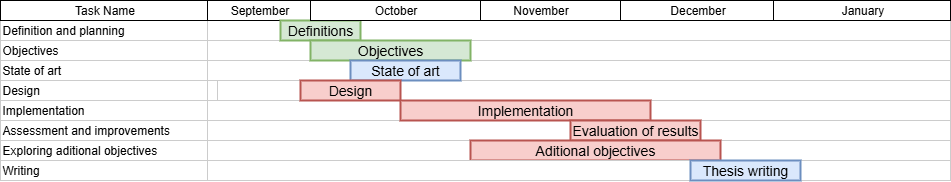
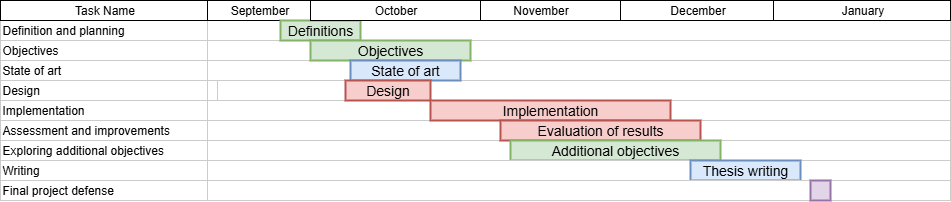
latex: PEC1: first fixings

Changed region(s): [[0.0, 0.0, 1.0, 1.0]]

diff --git a/latex/TFM/sections/1_introduction.tex b/latex/TFM/sections/1_introduction.tex
@@ -5,15 +5,18 @@
 \onehalfspacing
 %\addcontentsline{toc}{chapter}{Introduction}
 %\section{Introduction}
-\section{Justification of interest and relevance}
+\section{Context and motivation}
 
-Currently, it has been established that on large scales, the structure of the universe is formed by a vast cosmic web primarily composed of dark matter \cite{Eniasto:2014}. The topology of this cosmic web consists of a network of filaments that enclosing large voids \cite{Anatole:2024}. These filaments, comprising mainly of dark matter halos, contain the baryonic matter composed of galaxy clusters and intergalactic matter. The largest and most populated clusters and superclusters of galaxies reside within these dark matter filaments, predominantly at their intersection points, and thus form the largest structures of the visible universe.
+Al estudiar el universo a media y larga escala, nos adentramos en el universo de los cartografiados de galaxias, que son estudios basados en la utilización de telescopios dedicados a la obtención de grandes censos de galaxias. Estos estudios tienen muchos objetivos, uno de los consiste en mapear grandes zonas del universo.
 
-Determining the structure of these clusters is therefore crucial for understanding the matter distribution in the universe. This is where clustering algorithms come into play. For reasons that will be discussed further, the density-based algorithms may be the most appropriate for this study.
+Dos ejemplos son 2dGFRS SDSS, cuyos datos son la base para este trabajo, hablaremos más en detalle en la \label{sec:state-of_art} pero ya adelantamos que gracias a ellos obtenemos grandes juegos de datos con los que es posible realizar muchos trabajos sobre el contenido del universo.
 
-In this work we want to partially answer how density-based algorithms can be applied to determine how the matter is grouped in the universe.
+Currently, it has been established that on large scales, the structure of the universe is formed by a vast cosmic web primarily composed of dark matter \cite{Eniasto:2014}. The topology of this cosmic web consists of a network of filaments enclosing large voids \cite{Anatole:2024}. These filaments, composed mainly of dark matter halos, contain baryonic matter which includes galaxy clusters and intergalactic matter. The largest and most populated clusters and superclusters of galaxies reside within these dark matter filaments, predominantly at their intersection points, and thus form the largest structures of the visible universe.
 
-\section{Personal motivation}
+Determining the structure of these clusters is therefore crucial for understanding the distribution of matter in the universe. This is where clustering algorithms come into play. As will be discussed in section, the density-based algorithms may be the most appropriate for this study.
+
+
+\subsection{Personal motivation}
 
 Given my background and strong interest in astrophysics and cosmology, upon entering the field of Data Science, it is easy to recognize the vast potential for applying the multiple Machine Learning (ML) techniques to these scientific domains. In particular, the study of the large-scale structure of the Universe is, without a doubt, one of the most fascinating topics in science today and where ML methods can find a large number of applications.
 
@@ -26,28 +29,57 @@ Given my background and strong interest in astrophysics and cosmology, upon ente
 %\end{figure}
 
 
-\section{Goals definition}
+\section{Goals}
 
-There is a list of objectives I aim to achieve with this work:
+There are two list of goals we considered to address separatedly:
+
+\subsection {Main goals}
 \begin{itemize}
-	\item Generate a visualization map of the data object in this study.
-	\item Apply some density-based algorithm to galaxy and galaxy-groups datasets obtained from SDSS and 2DFGRS.
-	\item Figure out which of these algorithms work better and determine the possible causes.
-	\item Create a validation methods to obtain a hyperparameter tunning that optimize the group detection.
-	\item Detect possible methods to improve this study.
+	\item Apply density-based algorithms to galaxy datasets adquired from Two-degree Field Galaxy Redshift Survey (2dFGRS) and the Sloan Digital Sky Survey (SDSS), in order to obtain a validated model that can effectively approximate the observed structure of the universe.
+	\item Determine which of the applied algorithms work better and its possible causes.
 \end{itemize}
 
-It is also expected to achieve an approximation to actual groups of galaxies through the clusters obtained by the density-based methods.
+
+\subsection {Secondary goals}
+\begin{itemize}
+	\item Generate a visualization map of the data used in this study.
+	\item Create validation methods to obtain a hyper-parameter tunning that optimizes the galaxy cluster detection.
+\end{itemize}
 
 % sustentability from now it will be leave out
 % \input{2_sustentability.tex}
 
+\subsection{Sustainability, diversity, and ethical/social challenges}
 
-\section{Methodology and project development}
+This section should assess the positive/negative impact of the project in the following dimensions. It is not required to reach a positive impact in any/all dimensions, but it is necessary to consider and discuss whether there is an impact or not from the beginning of the project.
+El modo en que entendemos el universo es el modo en que avanzamos como sociedad, no es baladí que, a lo largo de la historia, los más profundos avances en ciencia tienen como consecuencia avances sociales que se traducen en una mayor la calidad de vida. 
+El conocimiento sobre el universo es también interpretarnos a nosotros mismos.
 
-Unsupervised algorithms, particularly density-based methods, will be applied to datasets drawn from surveys such as the SDSS and 2DFGRS to generate galaxy clustering models. These datasets are available at \cite{Blanton:2005}:
+\begin{description}
+    \item[Sustainability] In the development of the project or during its entire lifecycle (e.g., deployment, retirement), does the output of this project have an impact on sustainability and/or ecological footprint (energy/resource consumption/savings, waste, pollution, depletion of raw materials)? Is it affected by laws or regulations on this matter? Considering another perspective, does it affect any of the Sustainable Development Goals (SDG) related to these dimensions? If it does not have any impact, either positive or negative, you should explain how you reached this conclusion and justify your answer.
+    \item[Ethical behaviour and social responsibility] This work only uses shared datasets which license was freely made available from the authors. Of course, this work reference to other previous works which authority is neccesary recognize and without, this work would never can be possible.
+	
+	Is the outcome of the project too technical to have any positive/negative impact in ethical/social aspects? Does it have an impact on laws/regulations (data, privacy, labour, intellectual property, personal security, …)? Does it adhere to the deontological principles of the profession? Does it endanger/improve/worsen any job position? If it does not have any impact, either positive or negative, you should explain how you reached this conclusion and justify your answer.
+    \item[Diversity, gender and human rights] This work have a small direct impact on the this area, but the author thing that the more our ignorance as a society diminish in science, the better feeling on Diversity, gender, and human rigths, 
+	that sometimes issues derived from these matter have to do more that ignorance,   knledge of the universe 
+	Is the result of this project so technical that it has no positive/negative impact in terms of gender, diversity, or human rights? And in any laws/regulations? And in terms of accessibility, disability, ergonomics and/or information security? If it does not have any impact, either positive or negative, you should explain how you reached this conclusion and justify your answer.
+\end{description}
+
+
+\section{Approach and methodology}
+
+We will apply the phases drawn from the data life cycle, which are as follows.
+
+ - Collection: we will downloasd datasets drawn from surveys such as the SDSS and 2DFGRS to generate galaxy clustering models. These datasets are available at \cite{Blanton:2005}:
 
 https://gax.sjtu.edu.cn/data/Group.html
+ 
+ - Storage: we will keep donwnloaded data set in csv files.
+ - Preprocessing: stage containinig the tasks of cleaning, filtering, sampling, and fusion.
+ - Analysis stage: which contains model building througth application of the algorithms and validation of the outcomes.
+ - Visualization: graphical view of the results.
+
+The third point is the longest; in fact, it is an iterative process dedicated to improving the results obtained from the models. All models will consist of unsupervised algorithms, particularly density-based ones.
 
 To evaluate the performance of these models, the following criteria will be followed:
 
@@ -65,11 +97,11 @@ To evaluate the performance of these models, the following criteria will be foll
 	\item {External Data Classified as Members}: Individual data points (galaxies) not belonging to a true group but erroneously classified inside a detected cluster. (Often referred to as False Positives at the individual member level).
 \end{itemize}
 
-For this study, R programming language will be used to deploy and run scripts within RStudio environment. Some python scripts can be used as well.
+For this study, both programming languages Python and R will be used.
 
 \section{Schedule}
 
-A Gantt diagram in figure \ref{fig:stages_figure} shows the different stages of project development. The stages have been grouped on three sets:
+A Gantt diagram in figure \ref{fig:stages_figure} shows the different stages of project development. Excluding the final project defense, the stages have been grouped on three blocks:
 
 \begin{figure}[h]
 \centering
@@ -82,10 +114,6 @@ A Gantt diagram in figure \ref{fig:stages_figure} shows the different stages of 
 	\item The Planning stage (shown in green) involves gathering resources and defining the project's objectives.
 	\item The technical development stage (shown in red) includes design, data processing, method application and outcomes assessment.
 	\item Research and writing stages (shown in blue).
-\end{itemize}	
-Most of the time there is an overlap of stages, due following:
-\begin{itemize}
-	\item Initial stages: starting the project composed of several tasks.
-	\item There are two stages of objectives: one defined at the start of the project and the other during implementation, which may lead to further development.
-	\item Evaluating the outcomes as part of development.
 \end{itemize}
+
+An iterative and continuous review of the results is performed throughout the analysis process due to several causes: issues stemming from the algorithms, data processing, and the workflow itself. As a result, initial objectives be rearranged and redefined. This is why the aditional objetives stage is necessary.

diff --git a/latex/TFM/sections/0_abstract.tex b/latex/TFM/sections/0_abstract.tex
@@ -36,7 +36,7 @@ Author's name: & \autor \\
 \hline
 Collaborating teacher's name: & \supervisor \\
 \hline
-PRA's name: & First and last name\\
+PRA's name: & \profesor\\
 \hline
 Delivery date (mm/yyyy): & MM/YYYY\\
 \hline
@@ -56,13 +56,12 @@ Keywords: & \keywords\\
 %%%%%%%%%%%%%%%%%%%
 \chapter*{Dedication/Quote}
 
-Still working on it.
 
 %%%%%%%%%%%%%%%%%%%
 %%% Acknowledgements %%%
 %%%%%%%%%%%%%%%%%%%
-%\chapter*{Acknowledgements}
-%
+\chapter*{Acknowledgements}
+
 %If deemed appropriate, mention the people, companies or institutions that have contributed to the realization of this project.
 
 %%%%%%%%%%%%%%%%
@@ -73,7 +72,7 @@ Still working on it.
 
 \onehalfspacing
 
-This work focuses primary on the application of density-based algorithms to datasets obtained from various surveys, such as the Two-degree Field Galaxy Redshift Survey (2dFGRS) and the Sloan Digital Sky Survey (SDSS). As a result of this application, hyper-parameters tunning and an assessment will be conducted to identify the strengths and weaknesses of these algorithms in actual galactic group detection. In the future, these algorithms may be applied to new surveys and other regions of the sky.
+This work primary focuses on the application of density-based algorithms to datasets obtained from various surveys, such as the Two-degree Field Galaxy Redshift Survey (2dFGRS) and the Sloan Digital Sky Survey (SDSS). As a result of this application, hyper-parameter tunning and an assessment will be conducted to identify the strengths and weaknesses of these algorithms in actual galactic group detection. In the future, these algorithms may be applied to new surveys and other regions of the sky.
 
 \vspace{1.5cm}
 

diff --git a/latex/TFM/sections/4_state_of_art.tex b/latex/TFM/sections/4_state_of_art.tex
@@ -1,0 +1,34 @@
+\phantomsection
+\pagestyle{fancy}
+
+\chapter{State of the art}
+\onehalfspacing
+%\addcontentsline{toc}{chapter}{State_of_art}
+%\section{Introduction}
+
+This chapter aims to update the reader on the current state of the research area addressed by this work. For this, we will focus on two different parts, first inherent challenges of the data collected by the surveys, and second, a will brief introduction to Machine Learning, whose techniques we will apply in this work.
+
+\section{Surveys}
+
+\section{Machine Learning applyied to cosmology}
+
+We will, before presentig the results, give a brief description of the algorithms employed in this work.
+
+\subsection{Supervised Learning}
+
+Supervised learning focus on find patterns and relations within labeled data. The aim of Supervised Methods is to obtain some knowledge learned from given labeled-data in order to make predictions on some of the classes for new data. In other words given a set of data \( Z = (X, Y) = (X_1,.., X_n, Y_1, ...Y_m) \), we want to find a function F that holds \(Y=F(X) \).
+
+A subset is taken from the original dataset, the so called training data \( Z_i = (X_i, Y_i) \). And then the problem is reduced to find the minumum of a loss function, which measures the difference between \( Y_i \) and \( F(X_i) \) 
+The input of any supervised algorithms are some variables 
+\subsection{Unsupervised methods}
+
+Unsupervised learning focus on analysis and model of data without using any tags or output classes
+
+\subsection{OPTICS}
+
+\subsection{DBSCAN}
+
+\subsection{HDBSCAN}
+
+\subsection{Non density-based algorithims}
+

diff --git a/latex/TFM/TFM.tex b/latex/TFM/TFM.tex
@@ -59,11 +59,11 @@ citecolor=blue,
 \newcommand{\titulo}{Applying Density-Based Algorithms to Galaxy Groups Catalogs}
 \newcommand{\subtitulo}{Unveiling Galaxy Structure with Unsupervised Clustering}
 \newcommand{\autor}{Carlos Toro Peñas}
-\newcommand{\supervisor}{Laura Ruíz Dern}
+\newcommand{\supervisor}{Laura Ruiz Dern}
 \newcommand{\area}{4: Data Science}
-\newcommand{\profesor}{-}
-\newcommand{\keywords}{Clustering, Galaxy groups, cosmology}
-\newcommand{\keywordses}{Clusterización, cúmulos de galaxias, cosmología}
+\newcommand{\profesor}{David Masip Rodo}
+\newcommand{\keywords}{clustering, galaxy clusters, cosmology}
+\newcommand{\keywordses}{clustering, cúmulos de galaxias, cosmología}
 
 % cover page
 \input{sections/0_title.tex}
@@ -119,6 +119,11 @@ citecolor=blue,
 \input{sections/1_introduction.tex}
 \newpage
 
+\clearpage
+% Introduction
+% state of the art chapter
+% \input{sections/4_state_of_art.tex}
+\newpage
 % Other subsections from template are still possible to be included
 %\input{/sections/3_other_subsections.tex}
 
